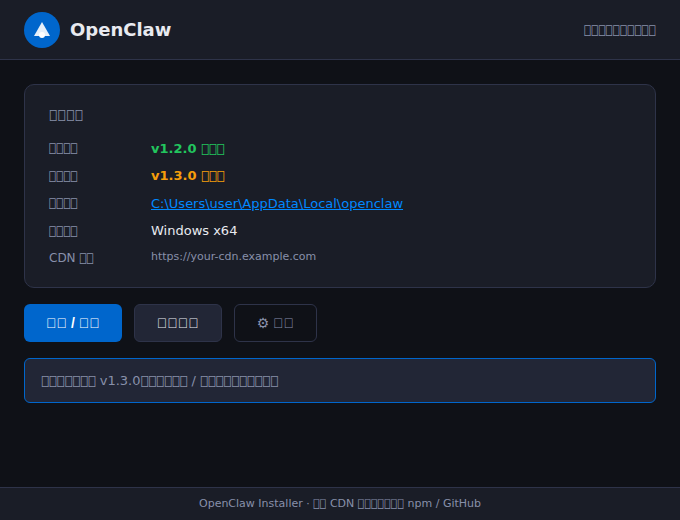
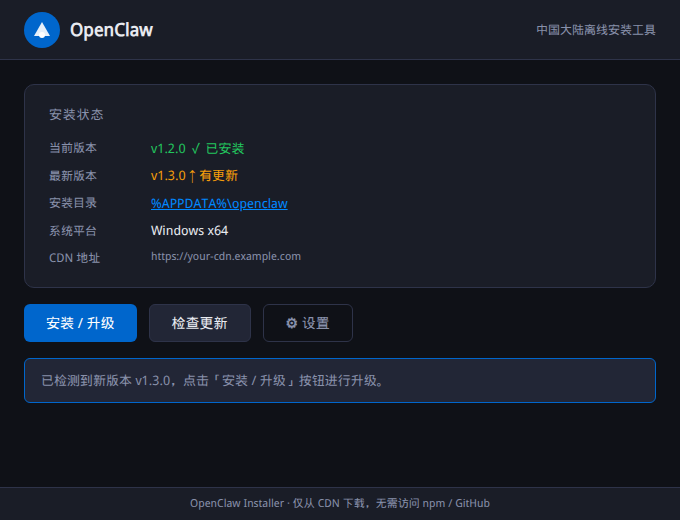
Fix garbled Chinese in screenshots: retake all 6 with WenQuanYi Micro Hei font

diff --git a/README.md b/README.md
@@ -146,7 +146,7 @@ npm start
 
 ### 界面预览
 
-![GUI 主界面](https://github.com/user-attachments/assets/60d4e768-fc32-4f81-8eb9-bbbf7d060af4)
+![GUI 主界面](https://github.com/user-attachments/assets/e7064f9e-d007-4ffb-bc26-6d978c4c40f5)
 
 ### 构建发布包
 
